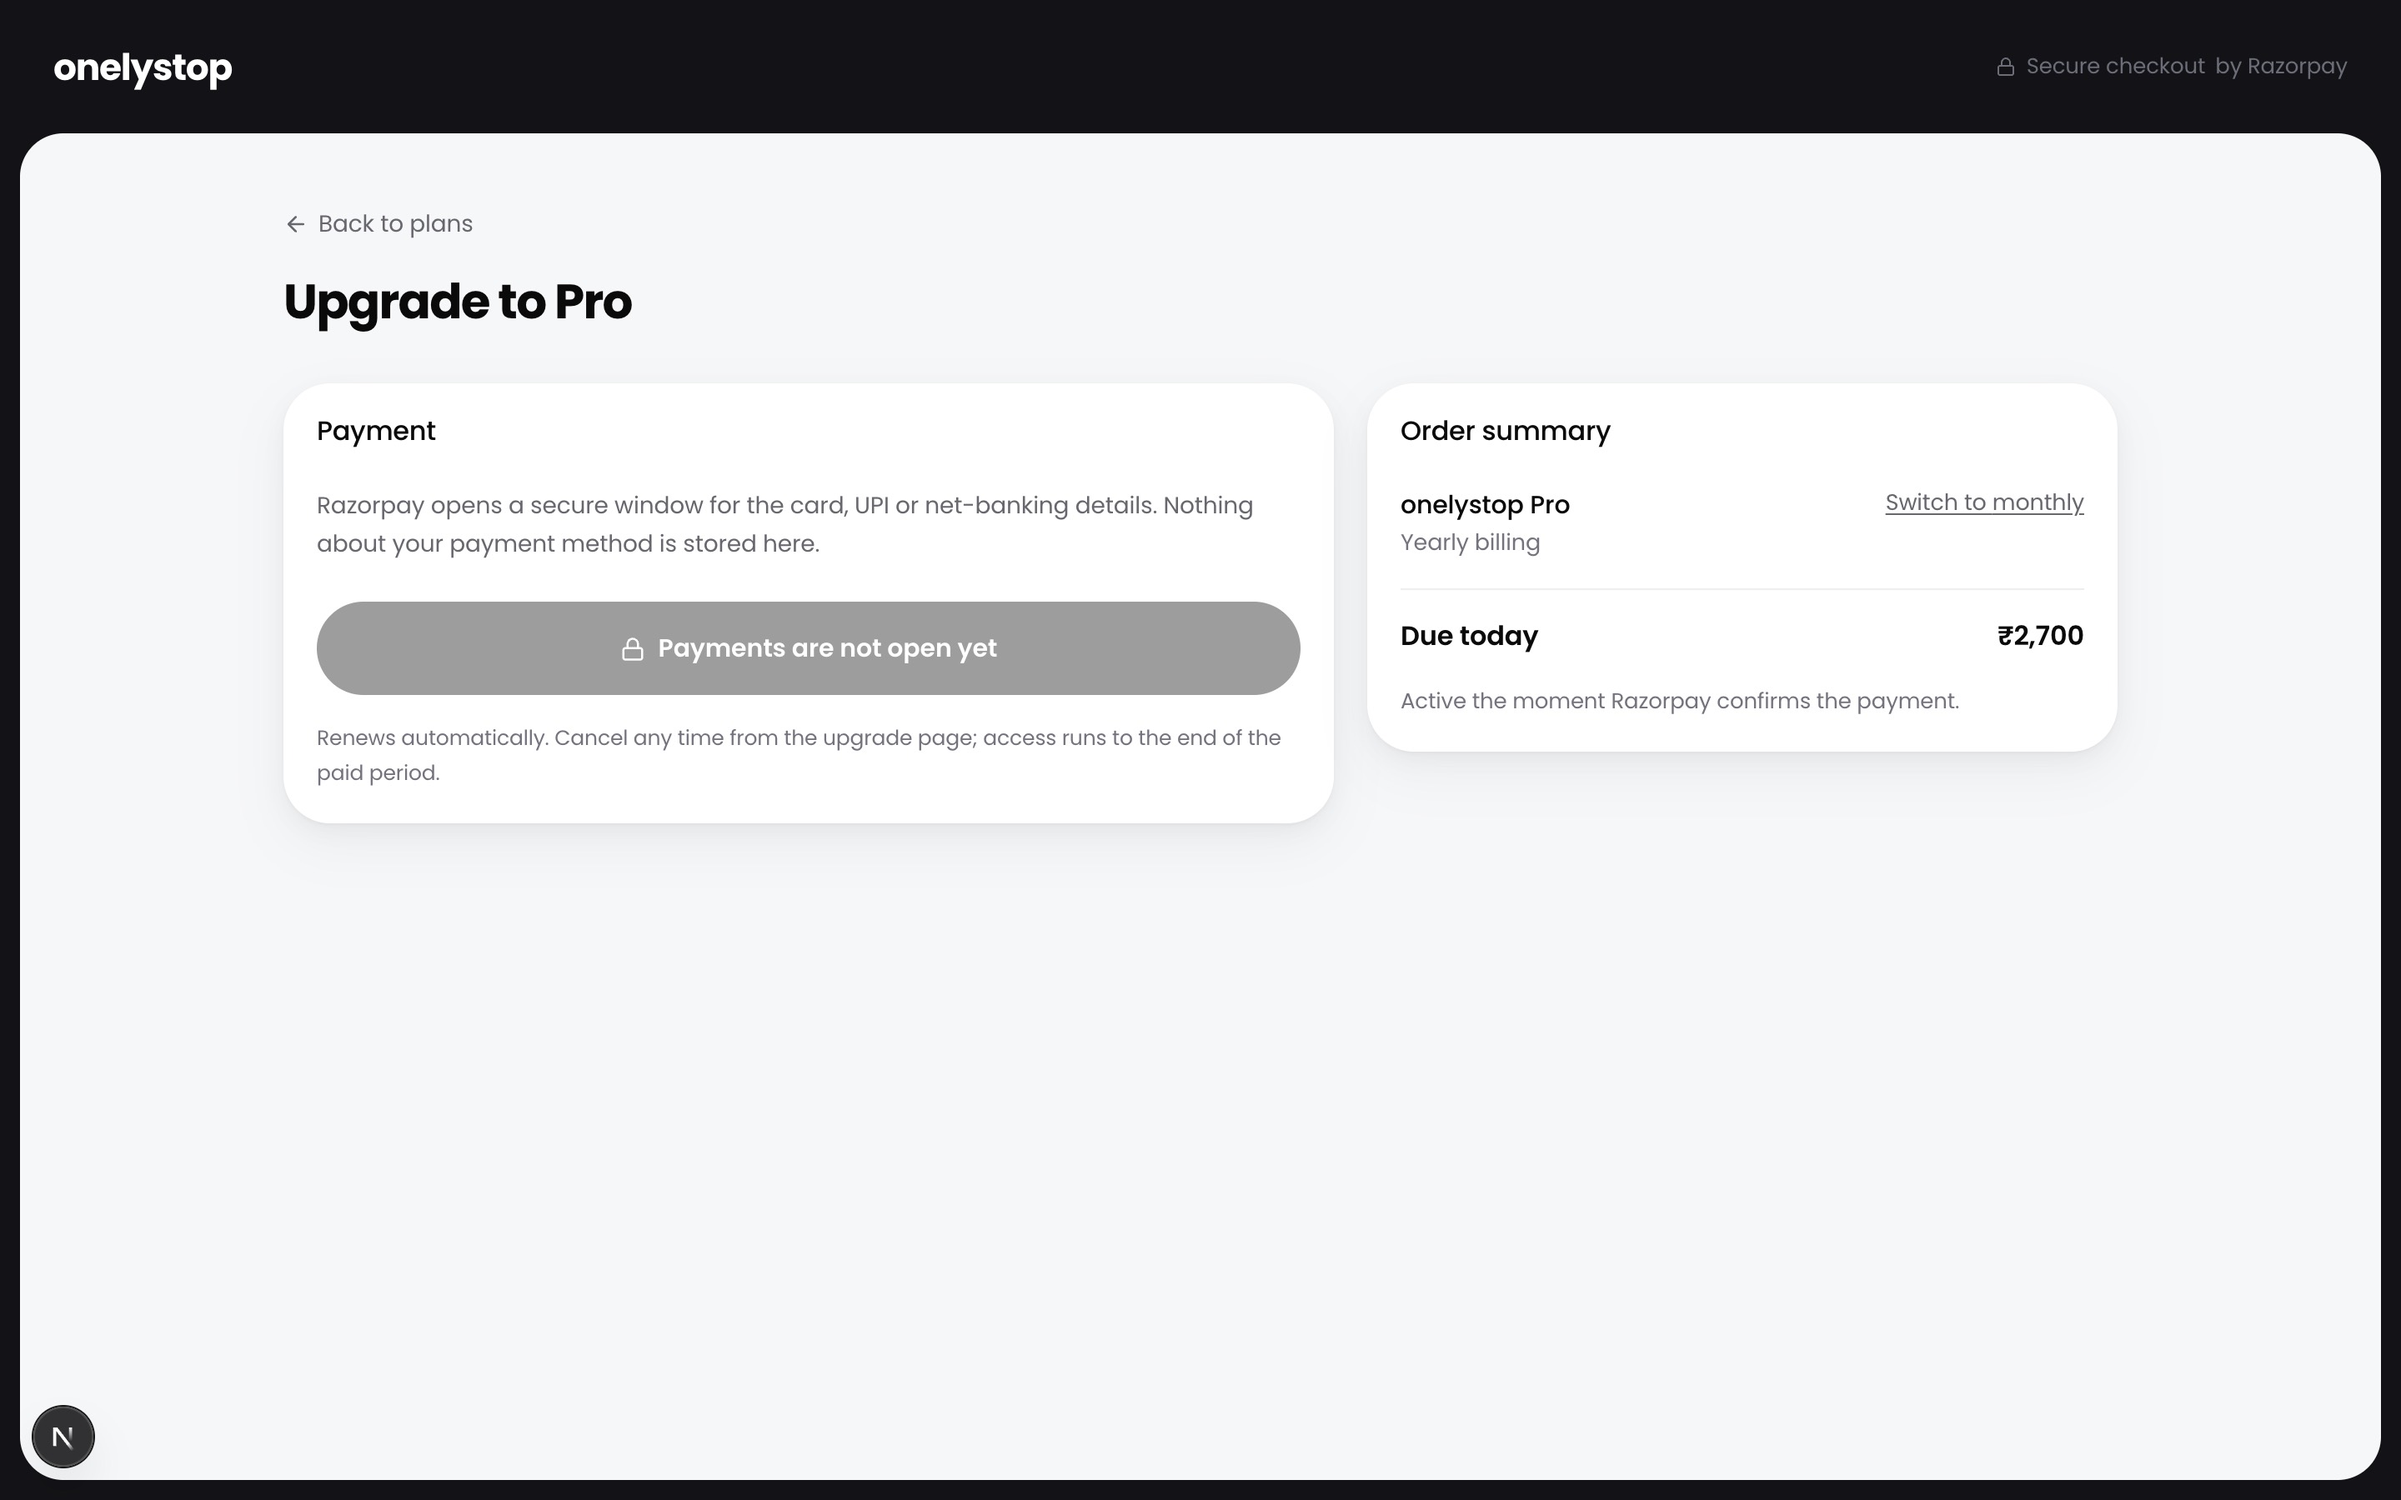
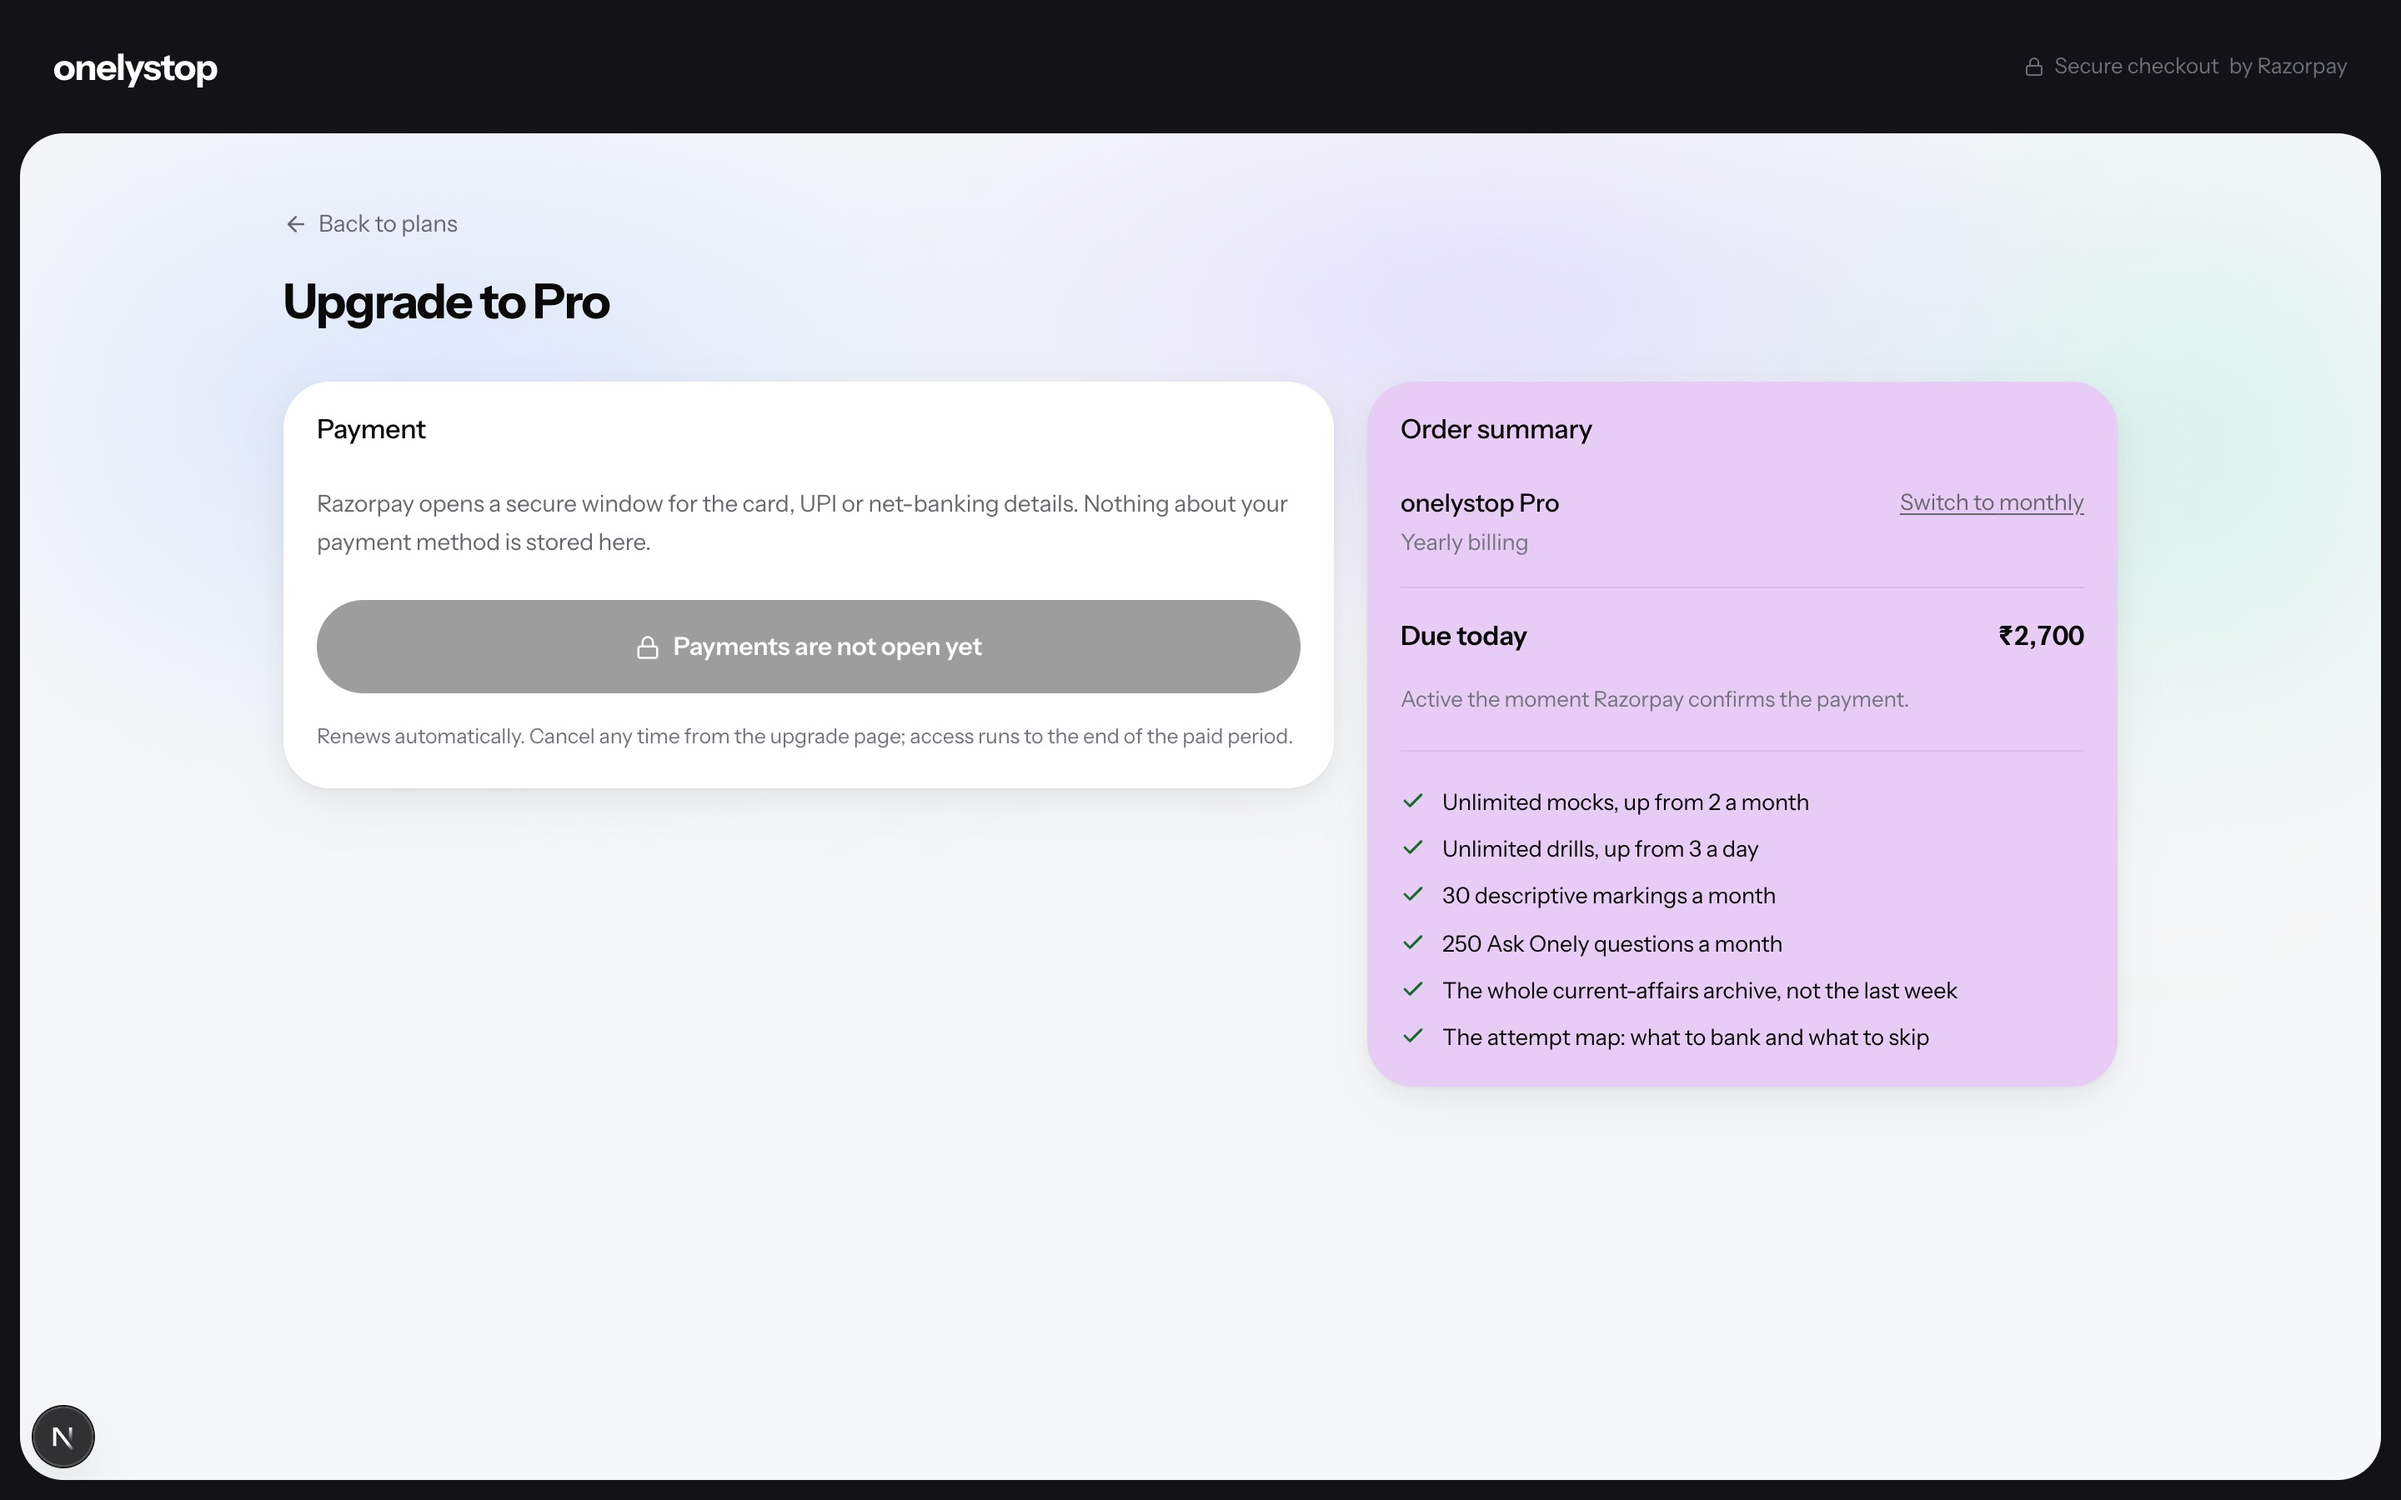
Give checkout a ground, and say what the money buys
Two white cards on a flat stage read as an unfinished page, which is a poor last
impression before someone pays. The stage now carries the landing hero's glow at
a lower opacity, and the order summary takes a tint so the money is the subject
rather than one of two equal panels.

The page was also half empty below the fold. It now lists what the plan actually
gives, counted against the free plan the reader is leaving, from PLAN_LIMITS
rather than a second hand-written copy. That fills the page with the one thing a
checkout should answer.

Measured: no horizontal overflow at 390 or 1440.

diff --git a/src/app/(bare)/upgrade/checkout/checkout-view.tsx b/src/app/(bare)/upgrade/checkout/checkout-view.tsx
@@ -4,7 +4,7 @@ import { useState, type ReactNode } from "react";
 import Link from "next/link";
 import Script from "next/script";
 import { useRouter } from "next/navigation";
-import { ArrowLeft, CheckCircle2, Loader2, Lock } from "lucide-react";
+import { ArrowLeft, Check, CheckCircle2, Loader2, Lock } from "lucide-react";
 import { Brand, Button, Card, SectionTitle } from "@/design-system";
 import {
   PLAN_LIMITS,
@@ -49,6 +49,30 @@ type Step =
 const POLL_MS = 2000;
 const POLL_TRIES = 15;
 
+const GLOW: React.CSSProperties = {
+  filter: "blur(56px)",
+  opacity: 0.55,
+  background: [
+    "radial-gradient(40% 55% at 18% 30%, #bcd4ff 0%, transparent 70%)",
+    "radial-gradient(38% 52% at 62% 18%, #cfc6ff 0%, transparent 72%)",
+    "radial-gradient(40% 55% at 92% 34%, #b6ecdd 0%, transparent 70%)",
+  ].join(","),
+};
+
+/** What the money buys, in the order it matters. Named against the free plan, because that is what the reader is leaving. */
+function included(plan: PaidPlan): string[] {
+  const l = PLAN_LIMITS[plan];
+  const free = PLAN_LIMITS.free;
+  return [
+    `Unlimited mocks, up from ${free.mocksPerMonth} a month`,
+    `Unlimited drills, up from ${free.drillsPerDay} a day`,
+    `${l.descriptiveMarkingsPerMonth} descriptive markings a month`,
+    `${l.askOnelyPerMonth} Ask Onely questions a month`,
+    "The whole current-affairs archive, not the last week",
+    "The attempt map: what to bank and what to skip",
+  ];
+}
+
 // The app's frame and stage, but no nav or rail — fewer exits on the payment step.
 function Shell({ children }: { children: ReactNode }) {
   return (
@@ -64,7 +88,13 @@ function Shell({ children }: { children: ReactNode }) {
         </header>
 
         <div className="flex flex-1 flex-col px-3 pb-3">
-          <div className="bg-stage flex flex-1 flex-col rounded-[26px] px-5 pt-8 pb-10 sm:px-10 lg:pt-11">
+          <div className="bg-stage relative isolate flex flex-1 flex-col overflow-hidden rounded-[26px] px-5 pt-8 pb-10 sm:px-10 lg:pt-11">
+            {/* The landing hero's device, dimmed: a flat stage under two white cards reads as an unfinished page. */}
+            <div
+              aria-hidden
+              className="absolute inset-x-0 top-0 -z-1 h-140"
+              style={GLOW}
+            />
             <div className="mx-auto w-full max-w-275">{children}</div>
           </div>
         </div>
@@ -279,7 +309,7 @@ export function CheckoutView({
           </p>
         </Card>
 
-        <Card>
+        <Card tone="brand">
           <SectionTitle>Order summary</SectionTitle>
           <div className="border-line flex items-start justify-between gap-4 border-b pb-4">
             <div>
@@ -310,6 +340,19 @@ export function CheckoutView({
           <p className="text-ink-3 mt-4 text-[13px] leading-relaxed">
             Active the moment Razorpay confirms the payment.
           </p>
+
+          <ul className="border-line mt-5 grid gap-2 border-t pt-5">
+            {included(plan).map((line) => (
+              <li key={line} className="flex items-start gap-2.5 text-[13.5px]">
+                <Check
+                  size={15}
+                  strokeWidth={2.5}
+                  className="text-ok mt-0.5 shrink-0"
+                />
+                {line}
+              </li>
+            ))}
+          </ul>
         </Card>
       </div>
     </Shell>
